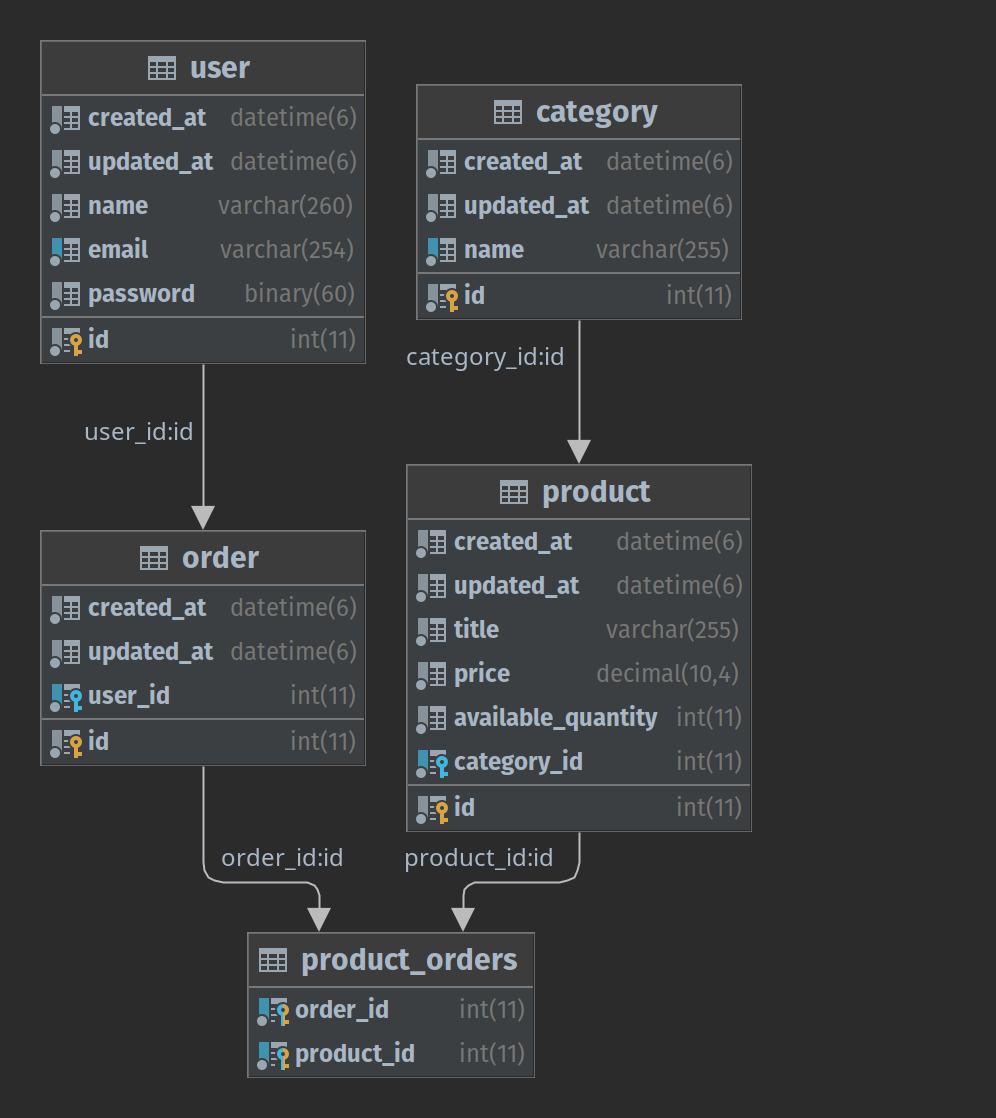
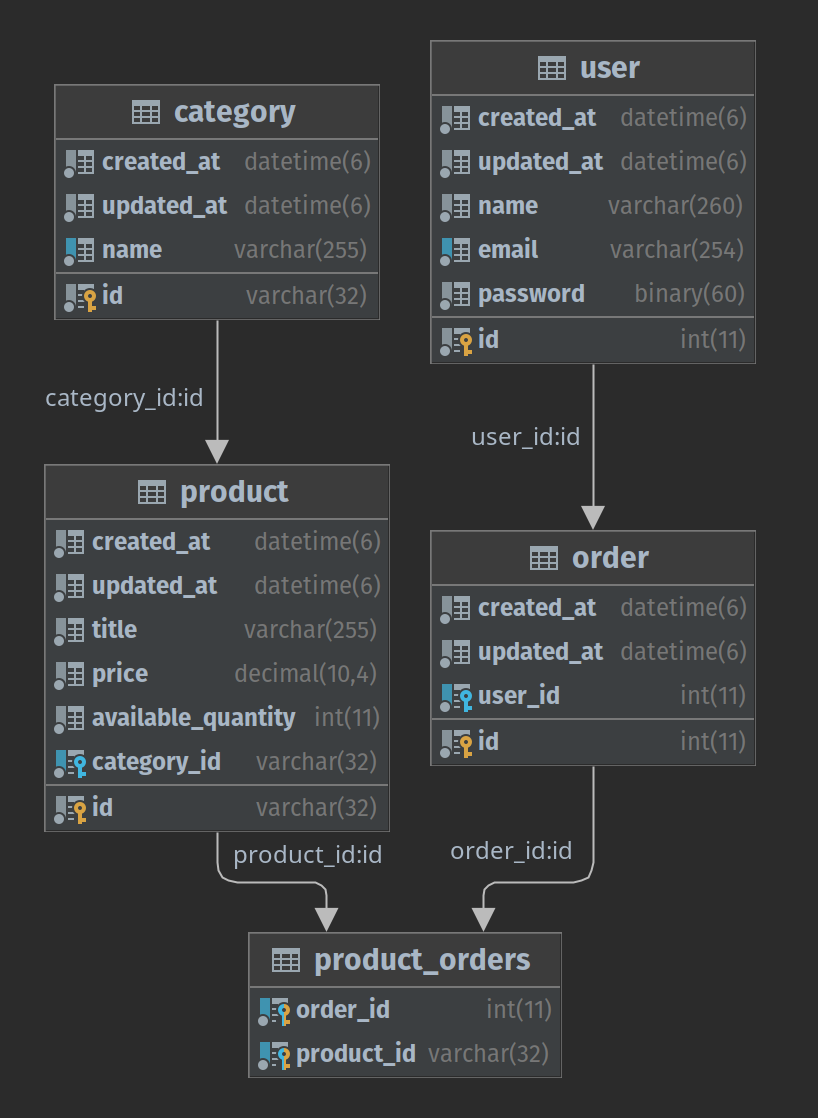
Change category and product to match Mercado Livre's API.
- Changes ID type from int to varchar(32);
- Changes price from decimal(10,4) to decimal(15,4) to accommodate for some products;
- Changes price from not null to nullable as some products have no price set;

Changed region(s): [[0.0306, 0.0304, 0.9169, 0.9732]]

diff --git a/src/migrations/1648691083199-product_id.ts b/src/migrations/1648691083199-product_id.ts
@@ -1,0 +1,54 @@
+import {MigrationInterface, QueryRunner} from "typeorm";
+
+export class productId1648691083199 implements MigrationInterface {
+    name = 'productId1648691083199'
+
+    public async up(queryRunner: QueryRunner): Promise<void> {
+        await queryRunner.query(`ALTER TABLE \`product_orders\` DROP FOREIGN KEY \`FK_8e8bcfcea727ab7d96d60781895\``);
+        await queryRunner.query(`ALTER TABLE \`product\` DROP FOREIGN KEY \`FK_0dce9bc93c2d2c399982d04bef1\``);
+        await queryRunner.query(`ALTER TABLE \`product\` CHANGE \`id\` \`id\` int NOT NULL`);
+        await queryRunner.query(`ALTER TABLE \`product\` DROP PRIMARY KEY`);
+        await queryRunner.query(`ALTER TABLE \`product\` DROP COLUMN \`id\``);
+        await queryRunner.query(`ALTER TABLE \`product\` ADD \`id\` varchar(32) NOT NULL PRIMARY KEY`);
+        await queryRunner.query(`ALTER TABLE \`product\` DROP COLUMN \`category_id\``);
+        await queryRunner.query(`ALTER TABLE \`product\` ADD \`category_id\` varchar(32) NOT NULL`);
+        await queryRunner.query(`ALTER TABLE \`category\` DROP PRIMARY KEY`);
+        await queryRunner.query(`ALTER TABLE \`category\` DROP COLUMN \`id\``);
+        await queryRunner.query(`ALTER TABLE \`category\` ADD \`id\` varchar(32) NOT NULL PRIMARY KEY`);
+        await queryRunner.query(`ALTER TABLE \`product_orders\` DROP PRIMARY KEY`);
+        await queryRunner.query(`ALTER TABLE \`product_orders\` ADD PRIMARY KEY (\`order_id\`)`);
+        await queryRunner.query(`DROP INDEX \`IDX_8e8bcfcea727ab7d96d6078189\` ON \`product_orders\``);
+        await queryRunner.query(`ALTER TABLE \`product_orders\` DROP COLUMN \`product_id\``);
+        await queryRunner.query(`ALTER TABLE \`product_orders\` ADD \`product_id\` varchar(32) NOT NULL`);
+        await queryRunner.query(`ALTER TABLE \`product_orders\` DROP PRIMARY KEY`);
+        await queryRunner.query(`ALTER TABLE \`product_orders\` ADD PRIMARY KEY (\`order_id\`, \`product_id\`)`);
+        await queryRunner.query(`CREATE INDEX \`IDX_8e8bcfcea727ab7d96d6078189\` ON \`product_orders\` (\`product_id\`)`);
+        await queryRunner.query(`ALTER TABLE \`product\` ADD CONSTRAINT \`FK_0dce9bc93c2d2c399982d04bef1\` FOREIGN KEY (\`category_id\`) REFERENCES \`category\`(\`id\`) ON DELETE NO ACTION ON UPDATE NO ACTION`);
+        await queryRunner.query(`ALTER TABLE \`product_orders\` ADD CONSTRAINT \`FK_8e8bcfcea727ab7d96d60781895\` FOREIGN KEY (\`product_id\`) REFERENCES \`product\`(\`id\`) ON DELETE NO ACTION ON UPDATE NO ACTION`);
+    }
+
+    public async down(queryRunner: QueryRunner): Promise<void> {
+        await queryRunner.query(`ALTER TABLE \`product_orders\` DROP FOREIGN KEY \`FK_8e8bcfcea727ab7d96d60781895\``);
+        await queryRunner.query(`ALTER TABLE \`product\` DROP FOREIGN KEY \`FK_0dce9bc93c2d2c399982d04bef1\``);
+        await queryRunner.query(`DROP INDEX \`IDX_8e8bcfcea727ab7d96d6078189\` ON \`product_orders\``);
+        await queryRunner.query(`ALTER TABLE \`product_orders\` DROP PRIMARY KEY`);
+        await queryRunner.query(`ALTER TABLE \`product_orders\` ADD PRIMARY KEY (\`order_id\`)`);
+        await queryRunner.query(`ALTER TABLE \`product_orders\` DROP COLUMN \`product_id\``);
+        await queryRunner.query(`ALTER TABLE \`product_orders\` ADD \`product_id\` int NOT NULL`);
+        await queryRunner.query(`CREATE INDEX \`IDX_8e8bcfcea727ab7d96d6078189\` ON \`product_orders\` (\`product_id\`)`);
+        await queryRunner.query(`ALTER TABLE \`product_orders\` DROP PRIMARY KEY`);
+        await queryRunner.query(`ALTER TABLE \`product_orders\` ADD PRIMARY KEY (\`order_id\`, \`product_id\`)`);
+        await queryRunner.query(`ALTER TABLE \`category\` DROP COLUMN \`id\``);
+        await queryRunner.query(`ALTER TABLE \`category\` ADD \`id\` varchar(16) NOT NULL`);
+        await queryRunner.query(`ALTER TABLE \`category\` ADD PRIMARY KEY (\`id\`)`);
+        await queryRunner.query(`ALTER TABLE \`product\` DROP COLUMN \`category_id\``);
+        await queryRunner.query(`ALTER TABLE \`product\` ADD \`category_id\` varchar(16) NOT NULL`);
+        await queryRunner.query(`ALTER TABLE \`product\` DROP COLUMN \`id\``);
+        await queryRunner.query(`ALTER TABLE \`product\` ADD \`id\` int NOT NULL AUTO_INCREMENT`);
+        await queryRunner.query(`ALTER TABLE \`product\` ADD PRIMARY KEY (\`id\`)`);
+        await queryRunner.query(`ALTER TABLE \`product\` CHANGE \`id\` \`id\` int NOT NULL AUTO_INCREMENT`);
+        await queryRunner.query(`ALTER TABLE \`product\` ADD CONSTRAINT \`FK_0dce9bc93c2d2c399982d04bef1\` FOREIGN KEY (\`category_id\`) REFERENCES \`category\`(\`id\`) ON DELETE NO ACTION ON UPDATE NO ACTION`);
+        await queryRunner.query(`ALTER TABLE \`product_orders\` ADD CONSTRAINT \`FK_8e8bcfcea727ab7d96d60781895\` FOREIGN KEY (\`product_id\`) REFERENCES \`product\`(\`id\`) ON DELETE NO ACTION ON UPDATE NO ACTION`);
+    }
+
+}

diff --git a/src/migrations/1648679336687-category_id.ts b/src/migrations/1648679336687-category_id.ts
@@ -1,0 +1,28 @@
+import {MigrationInterface, QueryRunner} from "typeorm";
+
+export class categoryId1648679336687 implements MigrationInterface {
+    name = 'categoryId1648679336687'
+
+    public async up(queryRunner: QueryRunner): Promise<void> {
+        await queryRunner.query(`ALTER TABLE \`product\` DROP FOREIGN KEY \`FK_0dce9bc93c2d2c399982d04bef1\``);
+        await queryRunner.query(`ALTER TABLE \`category\` CHANGE \`id\` \`id\` int NOT NULL`);
+        await queryRunner.query(`ALTER TABLE \`category\` DROP PRIMARY KEY`);
+        await queryRunner.query(`ALTER TABLE \`category\` DROP COLUMN \`id\``);
+        await queryRunner.query(`ALTER TABLE \`category\` ADD \`id\` varchar(16) NOT NULL PRIMARY KEY`);
+        await queryRunner.query(`ALTER TABLE \`product\` DROP COLUMN \`category_id\``);
+        await queryRunner.query(`ALTER TABLE \`product\` ADD \`category_id\` varchar(16) NOT NULL`);
+        await queryRunner.query(`ALTER TABLE \`product\` ADD CONSTRAINT \`FK_0dce9bc93c2d2c399982d04bef1\` FOREIGN KEY (\`category_id\`) REFERENCES \`category\`(\`id\`) ON DELETE NO ACTION ON UPDATE NO ACTION`);
+    }
+
+    public async down(queryRunner: QueryRunner): Promise<void> {
+        await queryRunner.query(`ALTER TABLE \`product\` DROP FOREIGN KEY \`FK_0dce9bc93c2d2c399982d04bef1\``);
+        await queryRunner.query(`ALTER TABLE \`product\` DROP COLUMN \`category_id\``);
+        await queryRunner.query(`ALTER TABLE \`product\` ADD \`category_id\` int NOT NULL`);
+        await queryRunner.query(`ALTER TABLE \`category\` DROP COLUMN \`id\``);
+        await queryRunner.query(`ALTER TABLE \`category\` ADD \`id\` int NOT NULL AUTO_INCREMENT`);
+        await queryRunner.query(`ALTER TABLE \`category\` ADD PRIMARY KEY (\`id\`)`);
+        await queryRunner.query(`ALTER TABLE \`category\` CHANGE \`id\` \`id\` int NOT NULL AUTO_INCREMENT`);
+        await queryRunner.query(`ALTER TABLE \`product\` ADD CONSTRAINT \`FK_0dce9bc93c2d2c399982d04bef1\` FOREIGN KEY (\`category_id\`) REFERENCES \`category\`(\`id\`) ON DELETE NO ACTION ON UPDATE NO ACTION`);
+    }
+
+}

diff --git a/src/api/product/product.entity.ts b/src/api/product/product.entity.ts
@@ -1,17 +1,17 @@
-import { Entity, Column, PrimaryGeneratedColumn, ManyToMany, ManyToOne, JoinColumn } from "typeorm";
+import { Entity, Column, ManyToMany, ManyToOne, JoinColumn, PrimaryColumn } from "typeorm";
 import { TimestampTrackedEntity } from "../base/timestampTracked.entity";
 import { Order } from "../order/order.entity";
 import { Category } from "../category/category.entity";
 
 @Entity()
 export class Product extends TimestampTrackedEntity {
-  @PrimaryGeneratedColumn()
-  id: number;
+  @PrimaryColumn({ length: 32 })
+  id: string;
 
   @Column({ length: 255, nullable: false })
   title: string;
 
-  @Column('decimal', { precision: 10, scale: 4, nullable: false })
+  @Column('decimal', { precision: 15, scale: 4, nullable: true })
   price: number;
 
   @Column({ nullable: false })

diff --git a/src/migrations/1648710403647-product-price.ts b/src/migrations/1648710403647-product-price.ts
@@ -1,0 +1,14 @@
+import {MigrationInterface, QueryRunner} from "typeorm";
+
+export class productPrice1648710403647 implements MigrationInterface {
+    name = 'productPrice1648710403647'
+
+    public async up(queryRunner: QueryRunner): Promise<void> {
+        await queryRunner.query(`ALTER TABLE \`product\` CHANGE \`price\` \`price\` decimal(15,4) NOT NULL`);
+    }
+
+    public async down(queryRunner: QueryRunner): Promise<void> {
+        await queryRunner.query(`ALTER TABLE \`product\` CHANGE \`price\` \`price\` decimal(10,4) NOT NULL`);
+    }
+
+}

diff --git a/src/migrations/1648710860030-price-nullable.ts b/src/migrations/1648710860030-price-nullable.ts
@@ -1,0 +1,14 @@
+import {MigrationInterface, QueryRunner} from "typeorm";
+
+export class priceNullable1648710860030 implements MigrationInterface {
+    name = 'priceNullable1648710860030'
+
+    public async up(queryRunner: QueryRunner): Promise<void> {
+        await queryRunner.query(`ALTER TABLE \`product\` CHANGE \`price\` \`price\` decimal(15,4) NULL`);
+    }
+
+    public async down(queryRunner: QueryRunner): Promise<void> {
+        await queryRunner.query(`ALTER TABLE \`product\` CHANGE \`price\` \`price\` decimal(15,4) NOT NULL`);
+    }
+
+}

diff --git a/src/api/category/category.entity.ts b/src/api/category/category.entity.ts
@@ -1,11 +1,11 @@
-import { Entity, Column, PrimaryGeneratedColumn, OneToMany } from "typeorm";
+import { Entity, Column, OneToMany, PrimaryColumn } from "typeorm";
 import { TimestampTrackedEntity } from "../base/timestampTracked.entity";
 import { Product } from "../product/product.entity";
 
 @Entity()
 export class Category extends TimestampTrackedEntity {
-  @PrimaryGeneratedColumn()
-  id: number;
+  @PrimaryColumn({ length: 32 })
+  id: string;
 
   @Column({ unique: true, length: 255, nullable: false })
   name: string;
